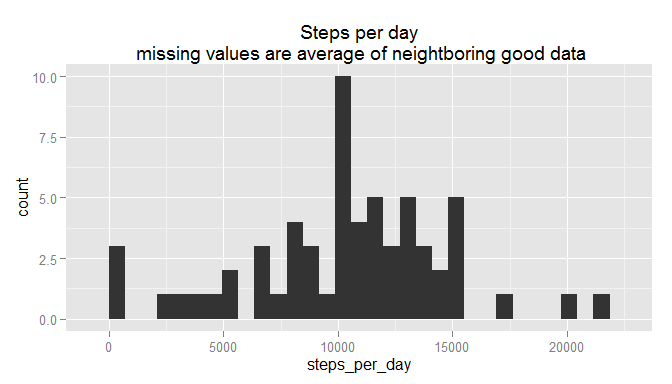
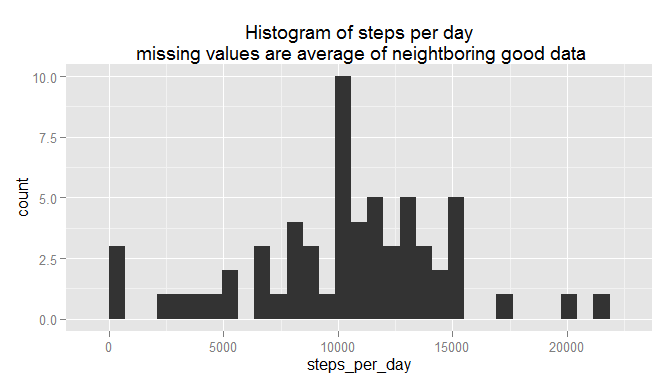
Near final

Changed region(s): [[0.3438, 0.0625, 0.7188, 0.125]]

diff --git a/PA1_template.html b/PA1_template.html
@@ -179,59 +179,63 @@ na_dist</code></pre>
 ## 8 2012-11-30   288</code></pre>
 <pre class="r"><code>tot_days &lt;- rawdata %&gt;% group_by(date) %&gt;% summarize(count=sum(steps))
 tot_na_days &lt;- nrow(na_dist)
+int_day &lt;- 24*60/5
 
-imp_steps_per_day &lt;- steps_per_day
-impute_steps &lt;- function(x=imp_steps_per_day$steps_per_day) {
+imp_raw &lt;- rawdata
+impute_steps &lt;- function(x=imp_raw$steps) {
     max_row &lt;- length(x)
-    last_val &lt;- NA
-    prior_na &lt;- FALSE
-    val &lt;- NA
-    for(i in 1:max_row) {
-        val &lt;- x[i]
-        if(!is.na(val)) {
-            last_val &lt;- val
+    last_day &lt;- int_day * trunc((max_row - 1)/int_day)
+    last_val &lt;- rep(NA, int_day)
+    prior_na &lt;- rep(FALSE, int_day)
+    val &lt;- rep(NA, int_day)
+    for(i in seq(1,max_row)) {
+        int_off &lt;- ((i-1) %% int_day) + 1 ##Remember does 1-N not 0-N
+        val[int_off] &lt;- x[i]
+        if(!is.na(val[int_off])) {
+            last_val[int_off] &lt;- val[int_off]
             next
         }
     
 #any NA will be replaced with average of good values prior and past the hole
 #first and last NA will just copy the closest existing value
-        if(i == max_row) {                  #special case, if last NA, use previous val
-            if(is.na(last_val)) stop(&quot;Error all values are NA&quot;)
-            x[i] &lt;- last_val
+        if(i &gt;= last_day) {                #special case, if last NA, use previous val
+            if(is.na(last_val[int_off])) stop(&quot;Error all values are NA&quot;)
+            x[i] &lt;- last_val[int_off]
             next
         }
     
-        val &lt;- NA
-        if(i ==1) {                         #special case with begin of list since no priors
-            prior_na &lt;- TRUE
-            for(j in 2:max_row) {
-                val &lt;- x[j]
-                if(!is.na(val)) {
-                    x[i] &lt;- val
+        val[int_off] &lt;- NA
+        if(i &lt;= int_day) {                      #special case with begin of list since no priors
+            prior_na[int_off] &lt;- TRUE
+            for(j in seq((int_off + int_day),max_row,int_day)) {
+                val[int_off] &lt;- x[j]
+                if(!is.na(val[int_off])) {
+                    x[i] &lt;- val[int_off]
                     break
                 }
             }
             next
         }
         
-        x[i] &lt;- last_val
-        for(j in (i+1):max_row) {
-            val &lt;- x[j]
-            if(!is.na(val)) {
-                x[i] &lt;- (last_val + val)/2
+        x[i] &lt;- last_val[int_off]
+        for(j in seq((i+int_day),max_row, int_day)){
+            val[int_off] &lt;- x[j]
+            if(!is.na(val[int_off])) {
+                x[i] &lt;- (last_val[int_off] + val[int_off])/2
                 break
             }
         }
-    }
+    } #end for i
     x
 }
-imp_steps_per_day$steps_per_day &lt;- impute_steps()
+imp_raw$steps &lt;- impute_steps()
 
-filename &lt;- &quot;3_imputed+steps_per_day_hist.png&quot;
+imp_steps_per_day &lt;- imp_raw %&gt;% group_by(date) %&gt;% summarize(steps_per_day= sum(steps))
+filename &lt;- &quot;3_imputed_steps_per_day_hist.png&quot;
 imputed_steps_per_day_fig &lt;- paste(figdir, filename, sep=&quot;&quot;)
 png(filename = imputed_steps_per_day_fig, width=600, height=600)
 g &lt;-qplot(data=imp_steps_per_day, steps_per_day, geom=&quot;histogram&quot;) +
-    ggtitle(&quot;Steps per day\n missing values are average of neightboring good data&quot;)
+    ggtitle(&quot;Histogram of steps per day\n missing values are average of neightboring good data&quot;)
 g</code></pre>
 <pre><code>## stat_bin: binwidth defaulted to range/30. Use 'binwidth = x' to adjust this.</code></pre>
 <pre class="r"><code>dev.off()</code></pre>
@@ -239,7 +243,7 @@ g</code></pre>
 ##   2</code></pre>
 <pre class="r"><code>g</code></pre>
 <pre><code>## stat_bin: binwidth defaulted to range/30. Use 'binwidth = x' to adjust this.</code></pre>
[2 lines of base64/hex data omitted]
 <pre class="r"><code>imp_mean &lt;- mean(imp_steps_per_day$steps_per_day)
 imp_median &lt;- median(imp_steps_per_day$steps_per_day)
 per_mean &lt;- trunc(imp_mean/mean_day *100)
@@ -251,11 +255,31 @@ per_median &lt;- trunc(imp_median/median_day *100)</code></pre>
 <p>The mean is now <strong>1.037248410^{4} vs 1.076618910^{4}</strong></p>
 <p>The median is now <strong>1.057110^{4} vs 1.076510^{4}</strong></p>
 <p>By imputing the missing values, we have slightly lowered the overall mean (96%) and median (98%).</p>
-<p>The histogram is stored in the file: <strong>figures/3_imputed+steps_per_day_hist.png</strong></p>
+<p>The histogram is stored in the file: <strong>figures/3_imputed_steps_per_day_hist.png</strong></p>
 </div>
 </div>
 <div id="are-there-differences-in-activity-patterns-between-weekdays-and-weekends" class="section level2">
 <h2>Are there differences in activity patterns between weekdays and weekends? ==</h2>
+<p>We are requested to mark columns as factors of “weekday” or “weekend”.</p>
+<pre class="r"><code>imp_raw$day_type &lt;- &quot;weekday&quot;
+day_type &lt;- as.POSIXlt(imp_raw$date)$wday
+day_type &lt;- day_type==0 | day_type==6
+imp_raw$day_type[day_type] &lt;- &quot;weekend&quot;
+imp_raw$day_type &lt;- as.factor(imp_raw$day_type)
+wday_wend &lt;- imp_raw %&gt;% group_by(day_type, interval) %&gt;% summarise(count = sum(steps))
+
+filename &lt;- &quot;4_weekday_vs_weekend_steps.png&quot;
+wday_wend_fig &lt;- paste(figdir, filename, sep=&quot;&quot;)
+png(filename = wday_wend_fig, width=600, height=600)
+g &lt;- qplot(data=wday_wend, interval, count, geom=c(&quot;point&quot;,&quot;smooth&quot;), stat=&quot;identity&quot;) +
+    facet_grid(day_type ~ .) + ggtitle(&quot;Comparison of walking weekday vs weekend&quot;)
+g
+dev.off()</code></pre>
+<pre><code>## png 
+##   2</code></pre>
+<pre class="r"><code>g</code></pre>
[1 lines of base64/hex data omitted]
+<p>The histogram is stored in the file: <strong>figures/4_weekday_vs_weekend_steps.png</strong></p>
 </div>
 <div id="appendix" class="section level1">
 <h1>Appendix =================</h1>

diff --git a/PA1_template.md b/PA1_template.md
@@ -185,59 +185,63 @@ na_dist
 ```r
 tot_days <- rawdata %>% group_by(date) %>% summarize(count=sum(steps))
 tot_na_days <- nrow(na_dist)
+int_day <- 24*60/5
 
-imp_steps_per_day <- steps_per_day
-impute_steps <- function(x=imp_steps_per_day$steps_per_day) {
+imp_raw <- rawdata
+impute_steps <- function(x=imp_raw$steps) {
     max_row <- length(x)
-    last_val <- NA
-    prior_na <- FALSE
-    val <- NA
-    for(i in 1:max_row) {
-        val <- x[i]
-        if(!is.na(val)) {
-            last_val <- val
+    last_day <- int_day * trunc((max_row - 1)/int_day)
+    last_val <- rep(NA, int_day)
+    prior_na <- rep(FALSE, int_day)
+    val <- rep(NA, int_day)
+    for(i in seq(1,max_row)) {
+        int_off <- ((i-1) %% int_day) + 1 ##Remember does 1-N not 0-N
+        val[int_off] <- x[i]
+        if(!is.na(val[int_off])) {
+            last_val[int_off] <- val[int_off]
             next
         }
     
 #any NA will be replaced with average of good values prior and past the hole
 #first and last NA will just copy the closest existing value
-        if(i == max_row) {                  #special case, if last NA, use previous val
-            if(is.na(last_val)) stop("Error all values are NA")
-            x[i] <- last_val
+        if(i >= last_day) {                #special case, if last NA, use previous val
+            if(is.na(last_val[int_off])) stop("Error all values are NA")
+            x[i] <- last_val[int_off]
             next
         }
     
-        val <- NA
-        if(i ==1) {                         #special case with begin of list since no priors
-            prior_na <- TRUE
-            for(j in 2:max_row) {
-                val <- x[j]
-                if(!is.na(val)) {
-                    x[i] <- val
+        val[int_off] <- NA
+        if(i <= int_day) {                      #special case with begin of list since no priors
+            prior_na[int_off] <- TRUE
+            for(j in seq((int_off + int_day),max_row,int_day)) {
+                val[int_off] <- x[j]
+                if(!is.na(val[int_off])) {
+                    x[i] <- val[int_off]
                     break
                 }
             }
             next
         }
         
-        x[i] <- last_val
-        for(j in (i+1):max_row) {
-            val <- x[j]
-            if(!is.na(val)) {
-                x[i] <- (last_val + val)/2
+        x[i] <- last_val[int_off]
+        for(j in seq((i+int_day),max_row, int_day)){
+            val[int_off] <- x[j]
+            if(!is.na(val[int_off])) {
+                x[i] <- (last_val[int_off] + val[int_off])/2
                 break
             }
         }
-    }
+    } #end for i
     x
 }
-imp_steps_per_day$steps_per_day <- impute_steps()
+imp_raw$steps <- impute_steps()
 
-filename <- "3_imputed+steps_per_day_hist.png"
+imp_steps_per_day <- imp_raw %>% group_by(date) %>% summarize(steps_per_day= sum(steps))
+filename <- "3_imputed_steps_per_day_hist.png"
 imputed_steps_per_day_fig <- paste(figdir, filename, sep="")
 png(filename = imputed_steps_per_day_fig, width=600, height=600)
 g <-qplot(data=imp_steps_per_day, steps_per_day, geom="histogram") +
-    ggtitle("Steps per day\n missing values are average of neightboring good data")
+    ggtitle("Histogram of steps per day\n missing values are average of neightboring good data")
 g
 ```
 
@@ -283,12 +287,44 @@ The median is now **1.0571\times 10^{4} vs 1.0765\times 10^{4}**
 By imputing the missing values, we have slightly lowered the overall mean (96%) and 
 median (98%).
 
-The histogram is stored in the file: **figures/3_imputed+steps_per_day_hist.png**
+The histogram is stored in the file: **figures/3_imputed_steps_per_day_hist.png**
 
 
 ## Are there differences in activity patterns between weekdays and weekends? ==
 
+We are requested to mark columns as factors of "weekday" or "weekend".
 
+
+```r
+imp_raw$day_type <- "weekday"
+day_type <- as.POSIXlt(imp_raw$date)$wday
+day_type <- day_type==0 | day_type==6
+imp_raw$day_type[day_type] <- "weekend"
+imp_raw$day_type <- as.factor(imp_raw$day_type)
+wday_wend <- imp_raw %>% group_by(day_type, interval) %>% summarise(count = sum(steps))
+
+filename <- "4_weekday_vs_weekend_steps.png"
+wday_wend_fig <- paste(figdir, filename, sep="")
+png(filename = wday_wend_fig, width=600, height=600)
+g <- qplot(data=wday_wend, interval, count, geom=c("point","smooth"), stat="identity") +
+    facet_grid(day_type ~ .) + ggtitle("Comparison of walking weekday vs weekend")
+g
+dev.off()
+```
+
+```
+## png 
+##   2
+```
+
+```r
+g
+```
+
+![](PA1_template_files/figure-html/wday_wend-1.png) 
+
+
+The histogram is stored in the file: **figures/4_weekday_vs_weekend_steps.png**
 
 # Appendix =================
 
